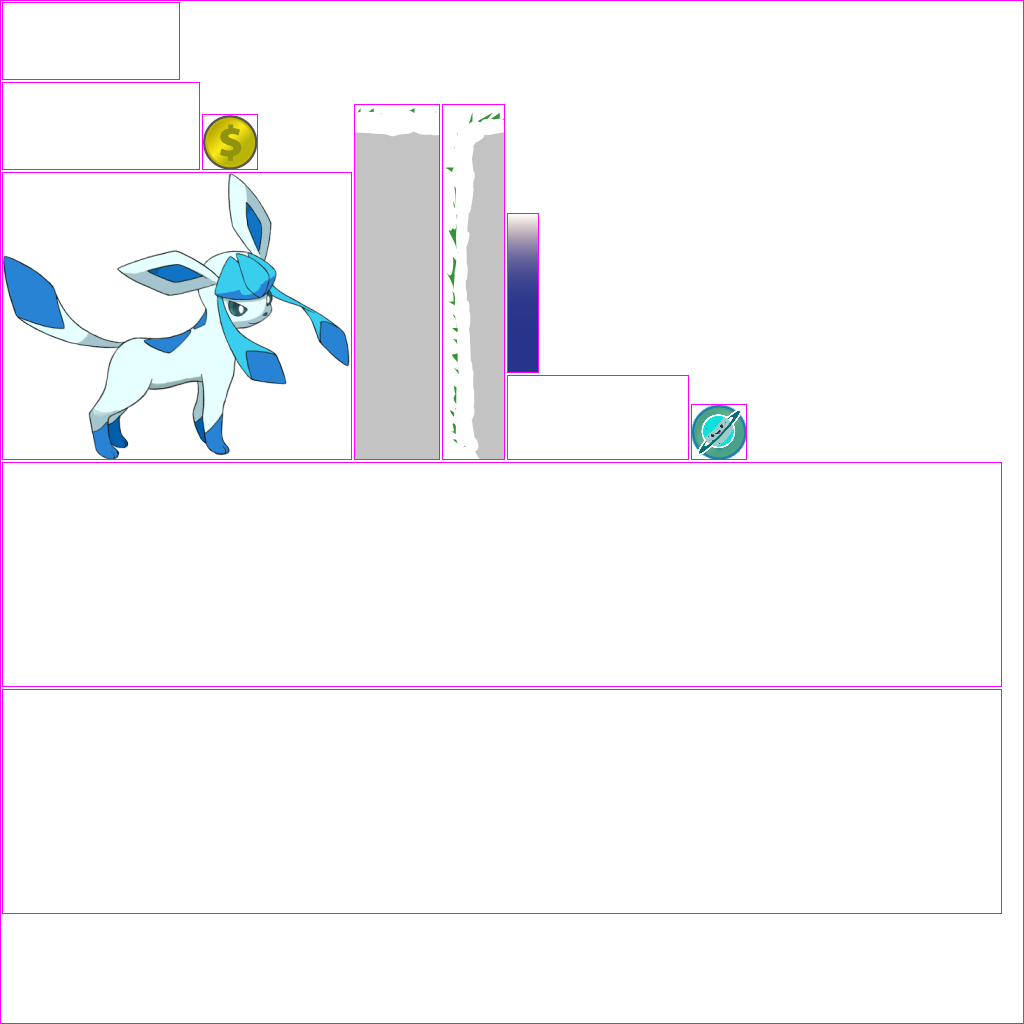
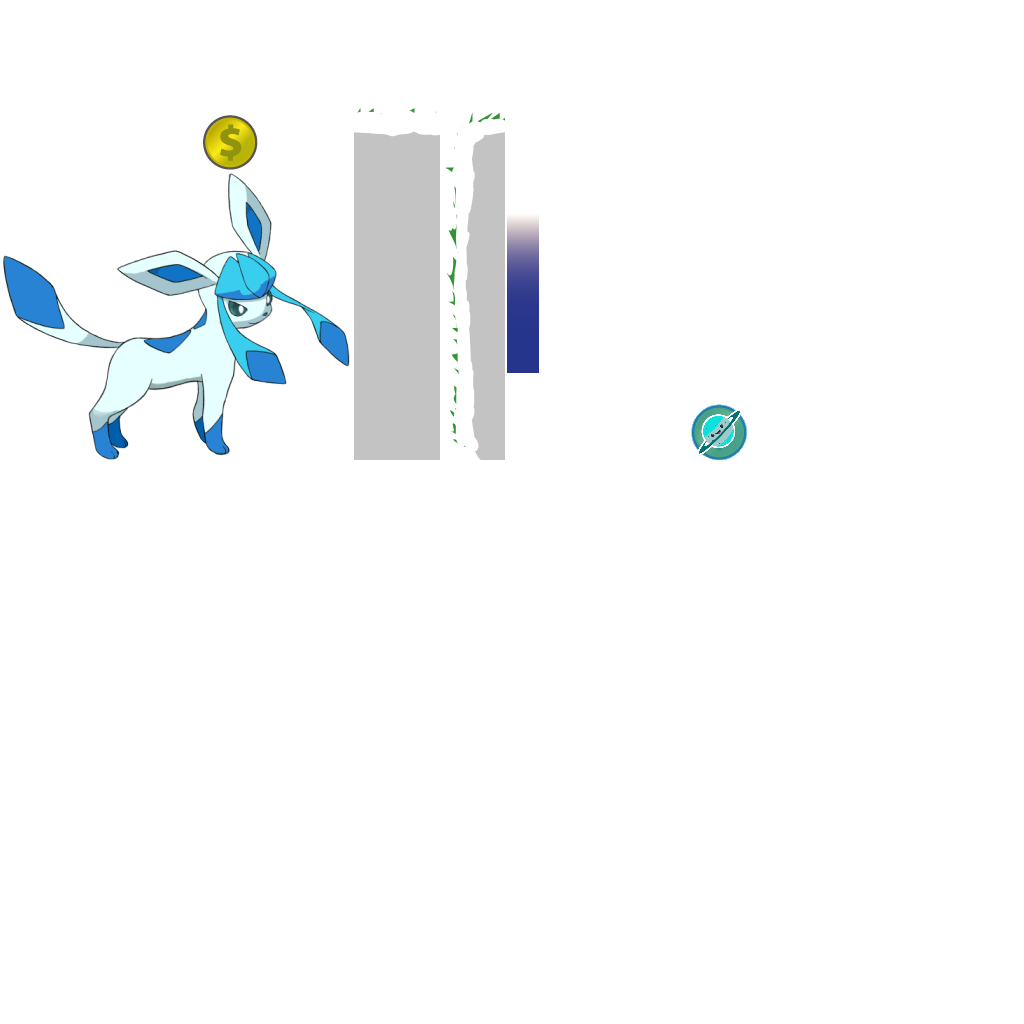
attempting to remove debug outline

diff --git a/desktop/src/com/mygdx/game/desktop/DesktopLauncher.java b/desktop/src/com/mygdx/game/desktop/DesktopLauncher.java
@@ -8,7 +8,7 @@ import com.badlogic.gdx.tools.texturepacker.TexturePacker.Settings;
 
 public class DesktopLauncher 
 {
-	private static boolean rebuildAtlas = false;
+	private static boolean rebuildAtlas = true;
 	private static boolean drawDebugOutline = false;
 
 	public static void main (String[] arg) 
@@ -19,7 +19,7 @@ public class DesktopLauncher
 			settings.maxWidth = 1024;
 			settings.maxHeight = 1024;
 			settings.duplicatePadding = false;
-			//settings.debug = drawDebugOutline;
+			settings.debug = drawDebugOutline;
 			TexturePacker.process(settings, "assets-raw/images", "../core/assets/images", "icehorse");
 		}
 		LwjglApplicationConfiguration config = new LwjglApplicationConfiguration();
